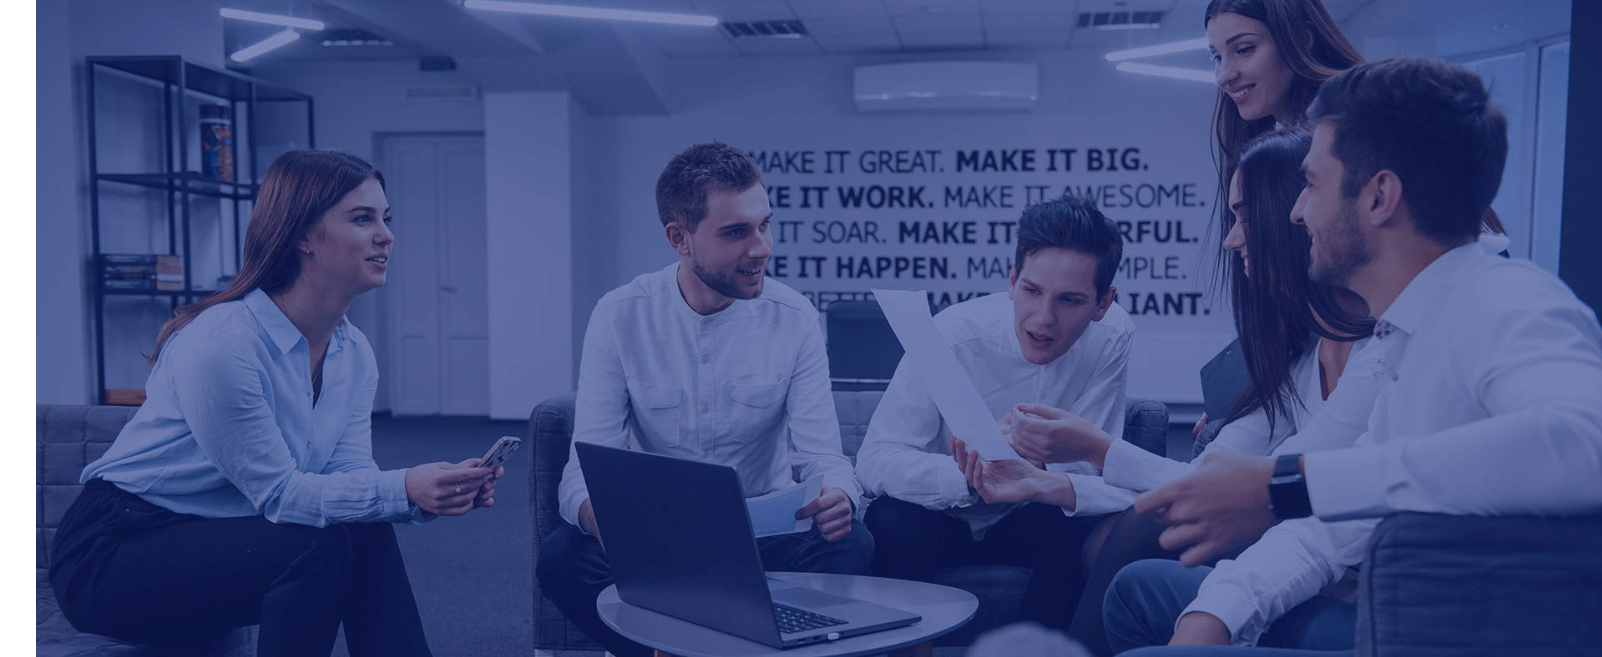
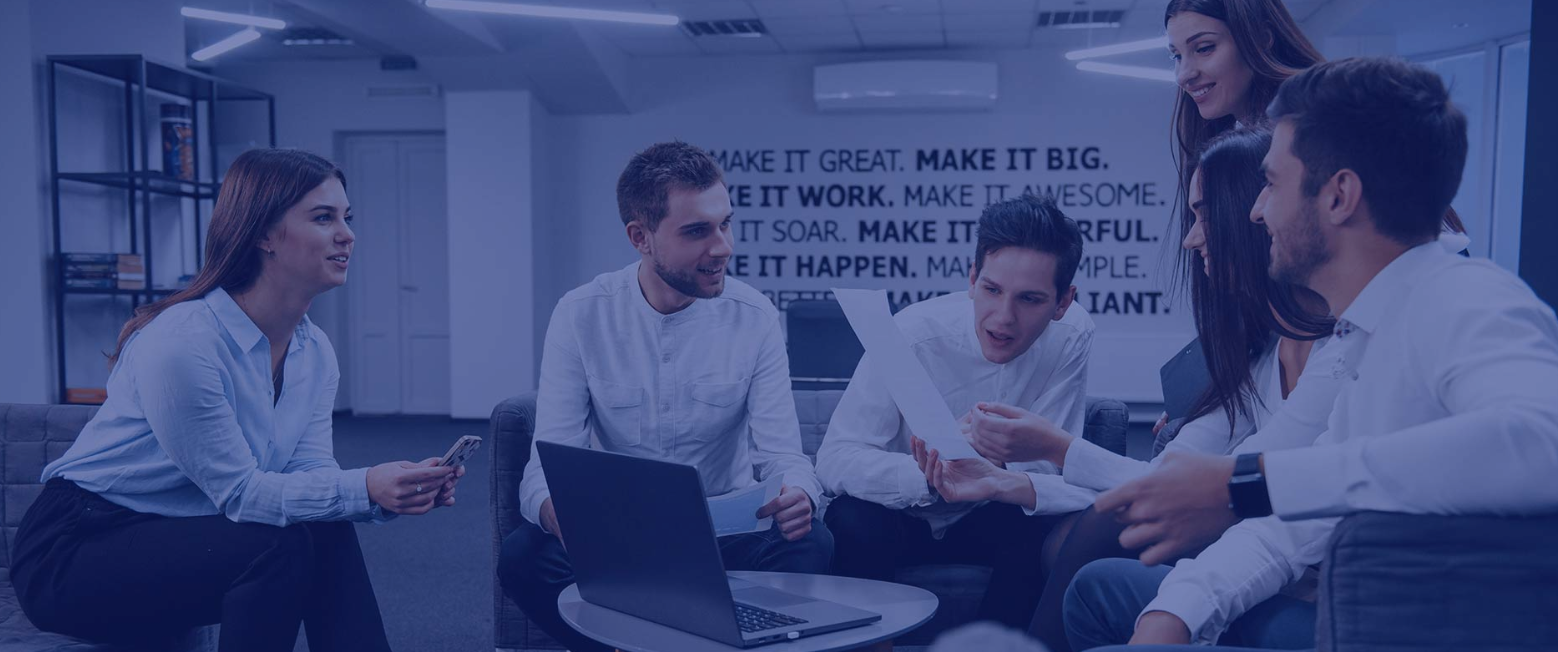
...

diff --git a/sass/style.scss b/sass/style.scss
@@ -40,7 +40,7 @@ min-height: 75vh;
 background-image: url('/images/background-container1.png');
 background-repeat: no-repeat;
 background-size: cover;
-background-position: center center;
+background-position: center;
 display: flex;
 justify-content: center;
 align-items: center;

diff --git a/css/style.css b/css/style.css
@@ -37,7 +37,7 @@
   background-image: url("/images/background-container1.png");
   background-repeat: no-repeat;
   background-size: cover;
-  background-position: center center;
+  background-position: center;
   display: flex;
   justify-content: center;
   align-items: center;
